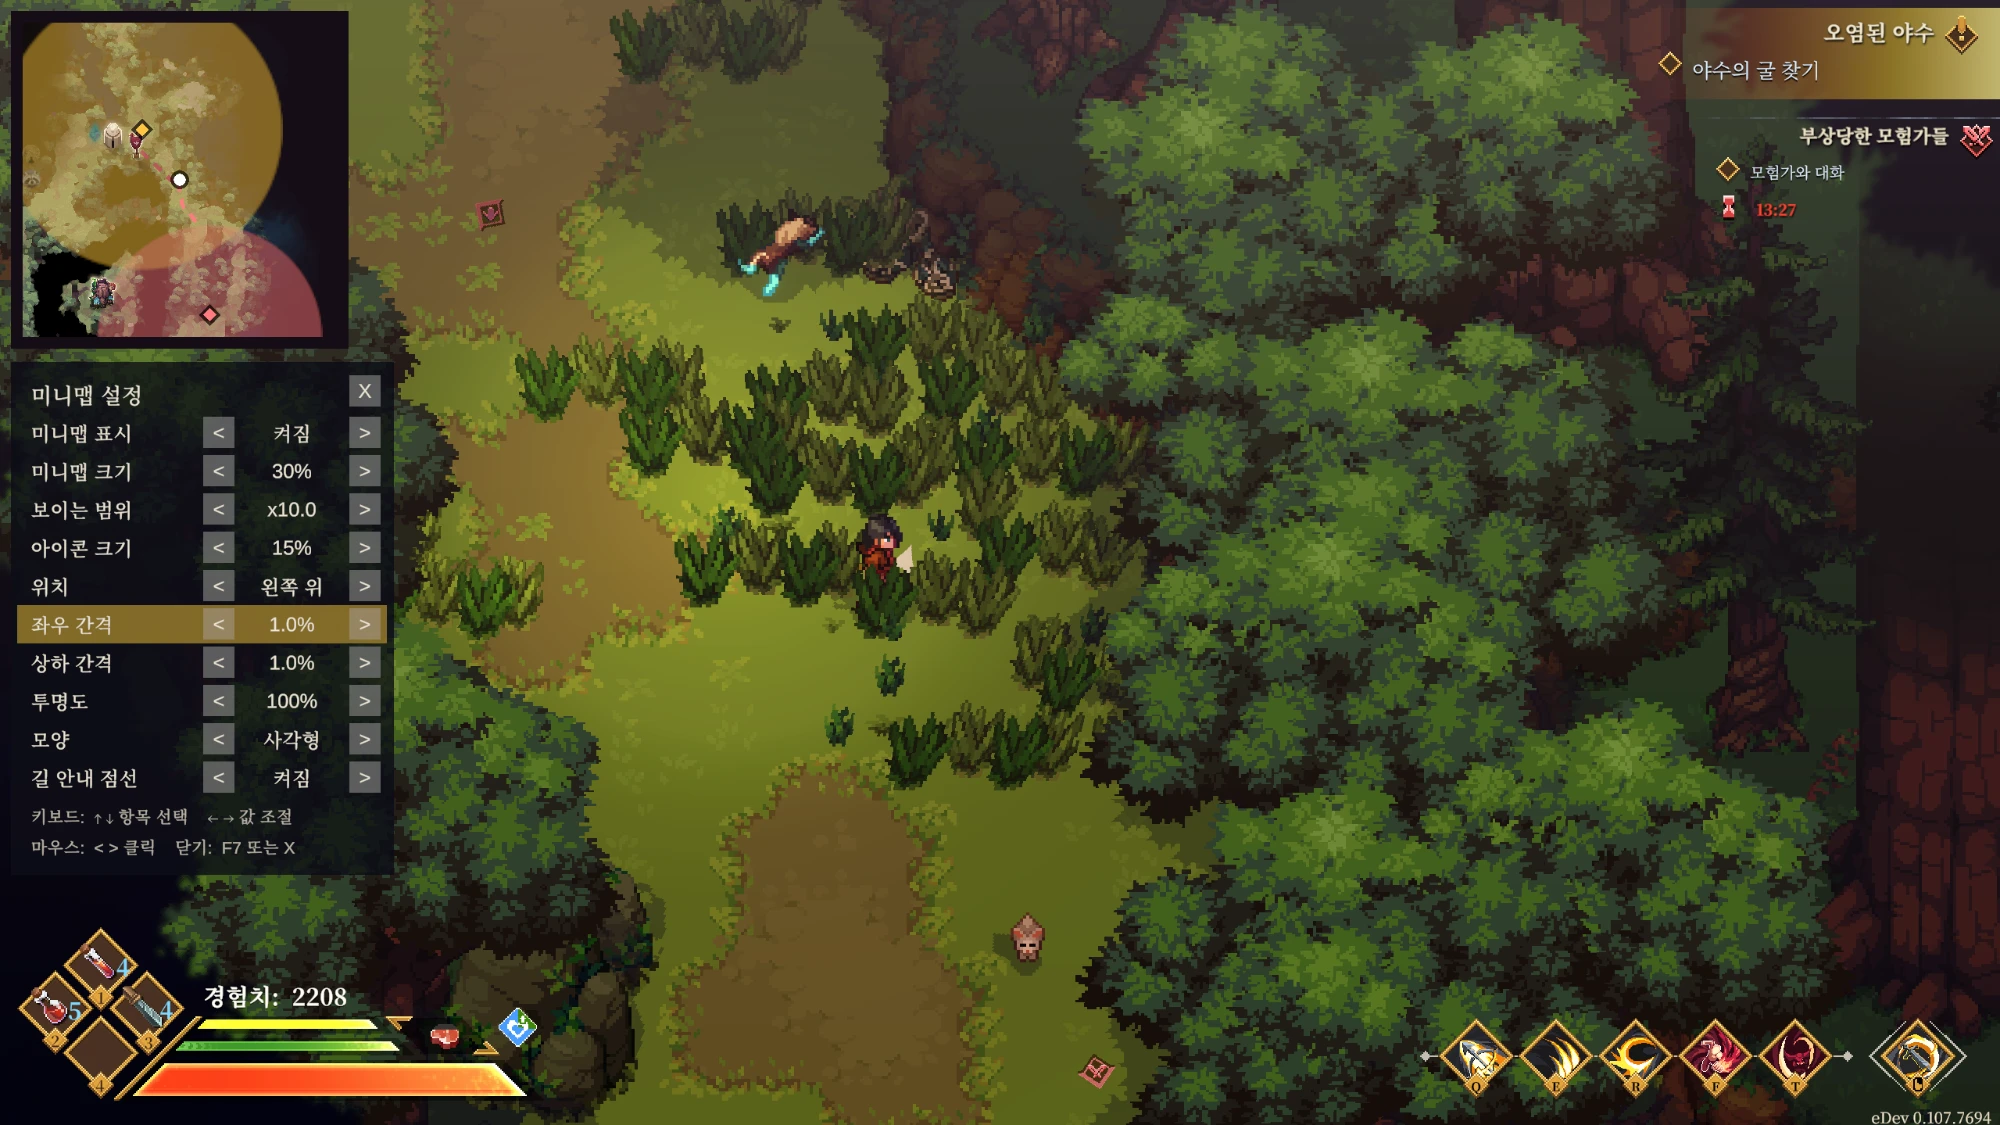
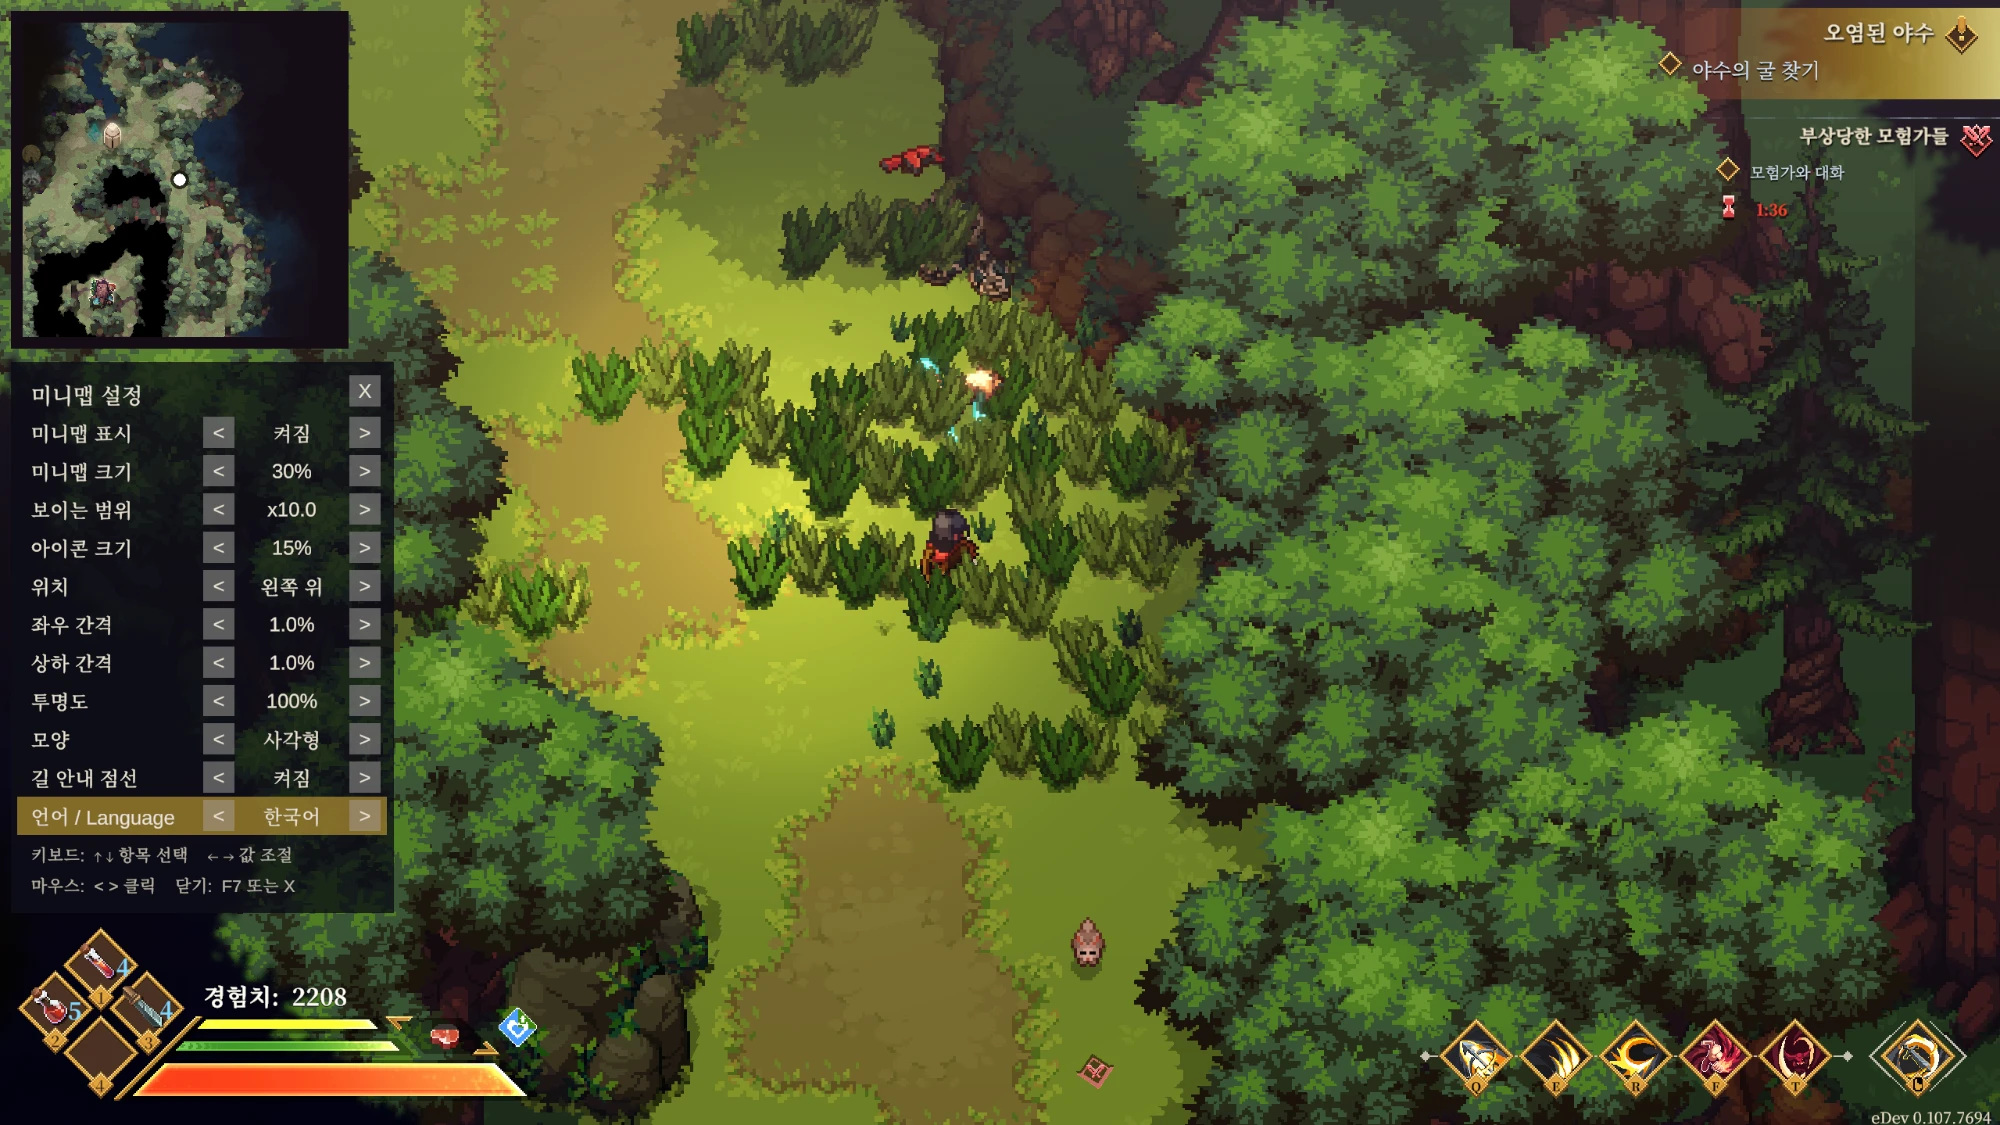
Update the README screenshot to the v0.7.0 settings panel

diff --git a/README.md b/README.md
@@ -7,9 +7,9 @@ An **unofficial** BepInEx plugin that adds a minimap to [Dimraeth](https://store
 > **Notice**
 > This is an unofficial fan-made mod, not affiliated with or endorsed by Mudtek. No game files or game-derived data are included in this repository or its releases. **It will be taken down immediately at the developer's request** — please open an issue. Use at your own risk.
 
-![The minimap in the top-left corner with quest areas, a guidance route and icons, and the F7 settings panel open below it](docs/screenshot.webp)
+![The minimap in the top-left corner showing the surrounding map, fog of war and place icons, with the F7 settings panel open below it](docs/screenshot.webp)
 
-*The minimap (top left) showing quest areas, a dashed guidance route and map icons, with the F7 settings panel open.*
+*The minimap (top left) with the surrounding map, fog of war and place icons, and the F7 settings panel open below it.*
 
 ## Features
 

diff --git a/README.ko.md b/README.ko.md
@@ -9,9 +9,9 @@
 >
 > This is an unofficial fan-made mod, not affiliated with or endorsed by Mudtek. No game files or game-derived data are included in this repository or its releases. **It will be taken down immediately at the developer's request** — please open an issue. Use at your own risk.
 
-![왼쪽 위의 미니맵에 퀘스트 범위, 길 안내 점선, 아이콘이 표시되고 그 아래 F7 설정 창이 열려 있는 모습](docs/screenshot.webp)
+![왼쪽 위의 미니맵에 주변 지도, 안개, 장소 아이콘이 표시되고 그 아래 F7 설정 창이 열려 있는 모습](docs/screenshot.webp)
 
-*미니맵(왼쪽 위)에 퀘스트 범위, 길 안내 점선, 지도 아이콘이 표시된 모습과 F7 설정 창.*
+*미니맵(왼쪽 위)에 주변 지도, 안개, 장소 아이콘이 표시된 모습과 그 아래의 F7 설정 창.*
 
 ## 기능
 
